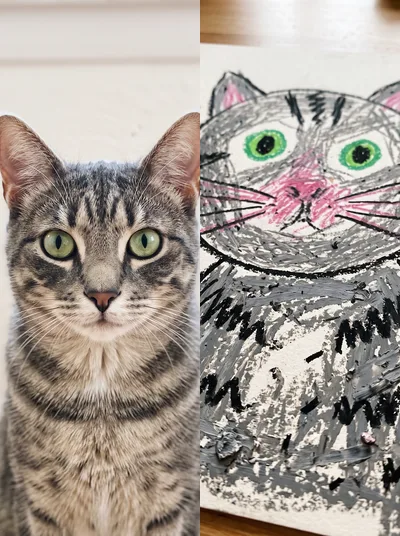
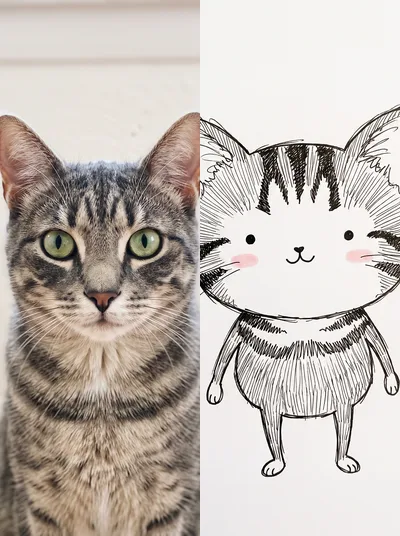
fix(swipe): 매직 부스에서 컨셉 넘기기가 업로드 화면으로 튕기던 것 + 403 을 낙서 캐릭터로 교체
■ "좌우로 밀면 다른 컨셉을 볼 수 있어요" 가 매직 부스에서만 거짓말이었다
  확인화면 스와이프는 원래 동작한다(일반 컨셉에서 실측: 스튜디오 클로즈업
  → 백리스 실크 브라이덜 → 스튜디오 레이스, 앞뒤 모두 확인화면 유지).
  그런데 매직 부스에서는 두 번 다 STEP 02 로 튕겨 나갔다.

  원인은 switchConcept 두 줄:
   · `if (isArtConcept(next)) setArtPhoto(null)` — 매직 부스 카테고리 안에서는
     이웃 컨셉이 항상 매직 부스라, 스와이프할 때마다 방금 올린 사진이 지워졌다.
   · needsPhoto 가 `isArtConcept(next) || ... || !photo` — 매직 부스는 photo 가
     아니라 artPhoto 를 쓰는데 두 슬롯을 구분하지 않았고, next 가 매직 부스면
     무조건 true 라 확인화면에 머물 수가 없었다.

  → 매직 부스끼리 이동할 땐 사진을 들고 간다. "같은 사진을 다른 스타일로" 는
    애초에 매직 부스의 핵심 사용법이다. 밖에서 처음 들어올 때(pickPrompt)는
    그대로 비워서 일회용 사진 원칙은 유지한다.
    needsPhoto 도 슬롯별로 갈랐다.

  재현·검증은 실제 터치 이벤트로 했다(playwright, iPhone 뷰포트 + hasTouch).
  수정 후 매직 부스에서 만년필 드로잉 → 라인 드로잉 → 유치원생 낙서로
  확인화면을 유지한 채 이동한다.

■ 403 유치원 오일파스텔 → 낙서 캐릭터 (Doodle Character)
  오너 지적: 782 유치원생 낙서와 차별점이 없다.
  둘 다 "유치원생이 그린 그림" 이라 실제로 결과가 겹쳤다.
  → 403 은 얇은 검정 펜 낙서체로 완전히 새로 썼다. 머리카락/털은 가는
    스크래치 스트로크 다발, 어두운 옷·무늬는 빽빽한 해칭으로 검게, 나머지는
    흰 여백. 색은 볼의 분홍 두 점과 소품 하나의 파스텔 악센트뿐.
    배경·조명·장소는 통째로 버리고 알아볼 특징만 남기라고 명시했다.
    782(크레용 색칠, 진짜 못 그린 그림)와 결이 확실히 갈린다.
  썸네일도 새 그림체로 다시 뽑았다(고등어 고양이 → 펜 낙서).

sw v64 → v65.

diff --git a/src/PortraitStudio.jsx b/src/PortraitStudio.jsx
@@ -1344,12 +1344,22 @@ export default function PortraitStudio() {
       isArtConcept(next) !== isArtConcept(selected) ||
       isCoupleConcept(next) !== isCoupleConcept(selected);
     if (consentChanged) setAgeConfirmed(false);
-    if (isArtConcept(next)) setArtPhoto(null); // 매직 부스는 매번 새 사진
+    // 매직 부스 → 매직 부스로 넘어갈 때는 방금 올린 사진을 그대로 들고 간다.
+    // ⚠ 예전엔 next 가 매직 부스면 무조건 artPhoto 를 비웠다. 그런데 매직 부스
+    //    카테고리 안에서는 이웃 컨셉이 항상 매직 부스라, 스와이프할 때마다 사진이
+    //    지워지고 아래 needsPhoto 에 걸려 업로드 화면으로 튕겨 나갔다 — 즉 확인화면의
+    //    "좌우로 밀면 다른 컨셉을 볼 수 있어요" 가 이 카테고리에서만 거짓말이었다
+    //    (실측 2026-08-20: 매직 부스에서 스와이프 2회 모두 STEP 02 로 이탈).
+    //    "같은 사진을 다른 스타일로" 는 애초에 매직 부스의 핵심 사용법이라 유지가 맞다.
+    //    밖에서 처음 들어올 때(pickPrompt)는 그대로 비운다 — 일회용 사진 원칙 유지.
+    if (isArtConcept(next) && !isArtConcept(selected)) setArtPhoto(null);
 
-    const needsPhoto =
-      isArtConcept(next) ||                              // 변환할 사진을 새로 받아야 함
-      (isCoupleConcept(next) && !partnerPhoto) ||        // 상대 사진 없음
-      !photo;                                            // 본인 사진 없음
+    // ⚠ 매직 부스는 photo(프로필 사진)가 아니라 artPhoto 를 쓴다. 예전 조건은
+    //    두 슬롯을 구분하지 않아 매직 부스인데 프로필 사진 유무를 보고 있었다.
+    const needsPhoto = isArtConcept(next)
+      ? !artPhoto                                        // 변환할 사진이 없을 때만
+      : (!photo ||                                       // 본인 사진 없음
+         (isCoupleConcept(next) && !partnerPhoto));      // 상대 사진 없음
 
     setNavDir("fwd");
     setSelected(next);

diff --git a/public/sw.js b/public/sw.js
@@ -10,7 +10,7 @@
 // 새 버전 배포 시: 아래 VERSION 만 올리면 됨.
 // ============================================================
 
-const VERSION = "v64";
+const VERSION = "v65";
 const STATIC_CACHE = `rimikimi-static-${VERSION}`;
 const THUMB_CACHE = `rimikimi-thumbs-${VERSION}`;
 const DATA_CACHE = `rimikimi-data-${VERSION}`;
